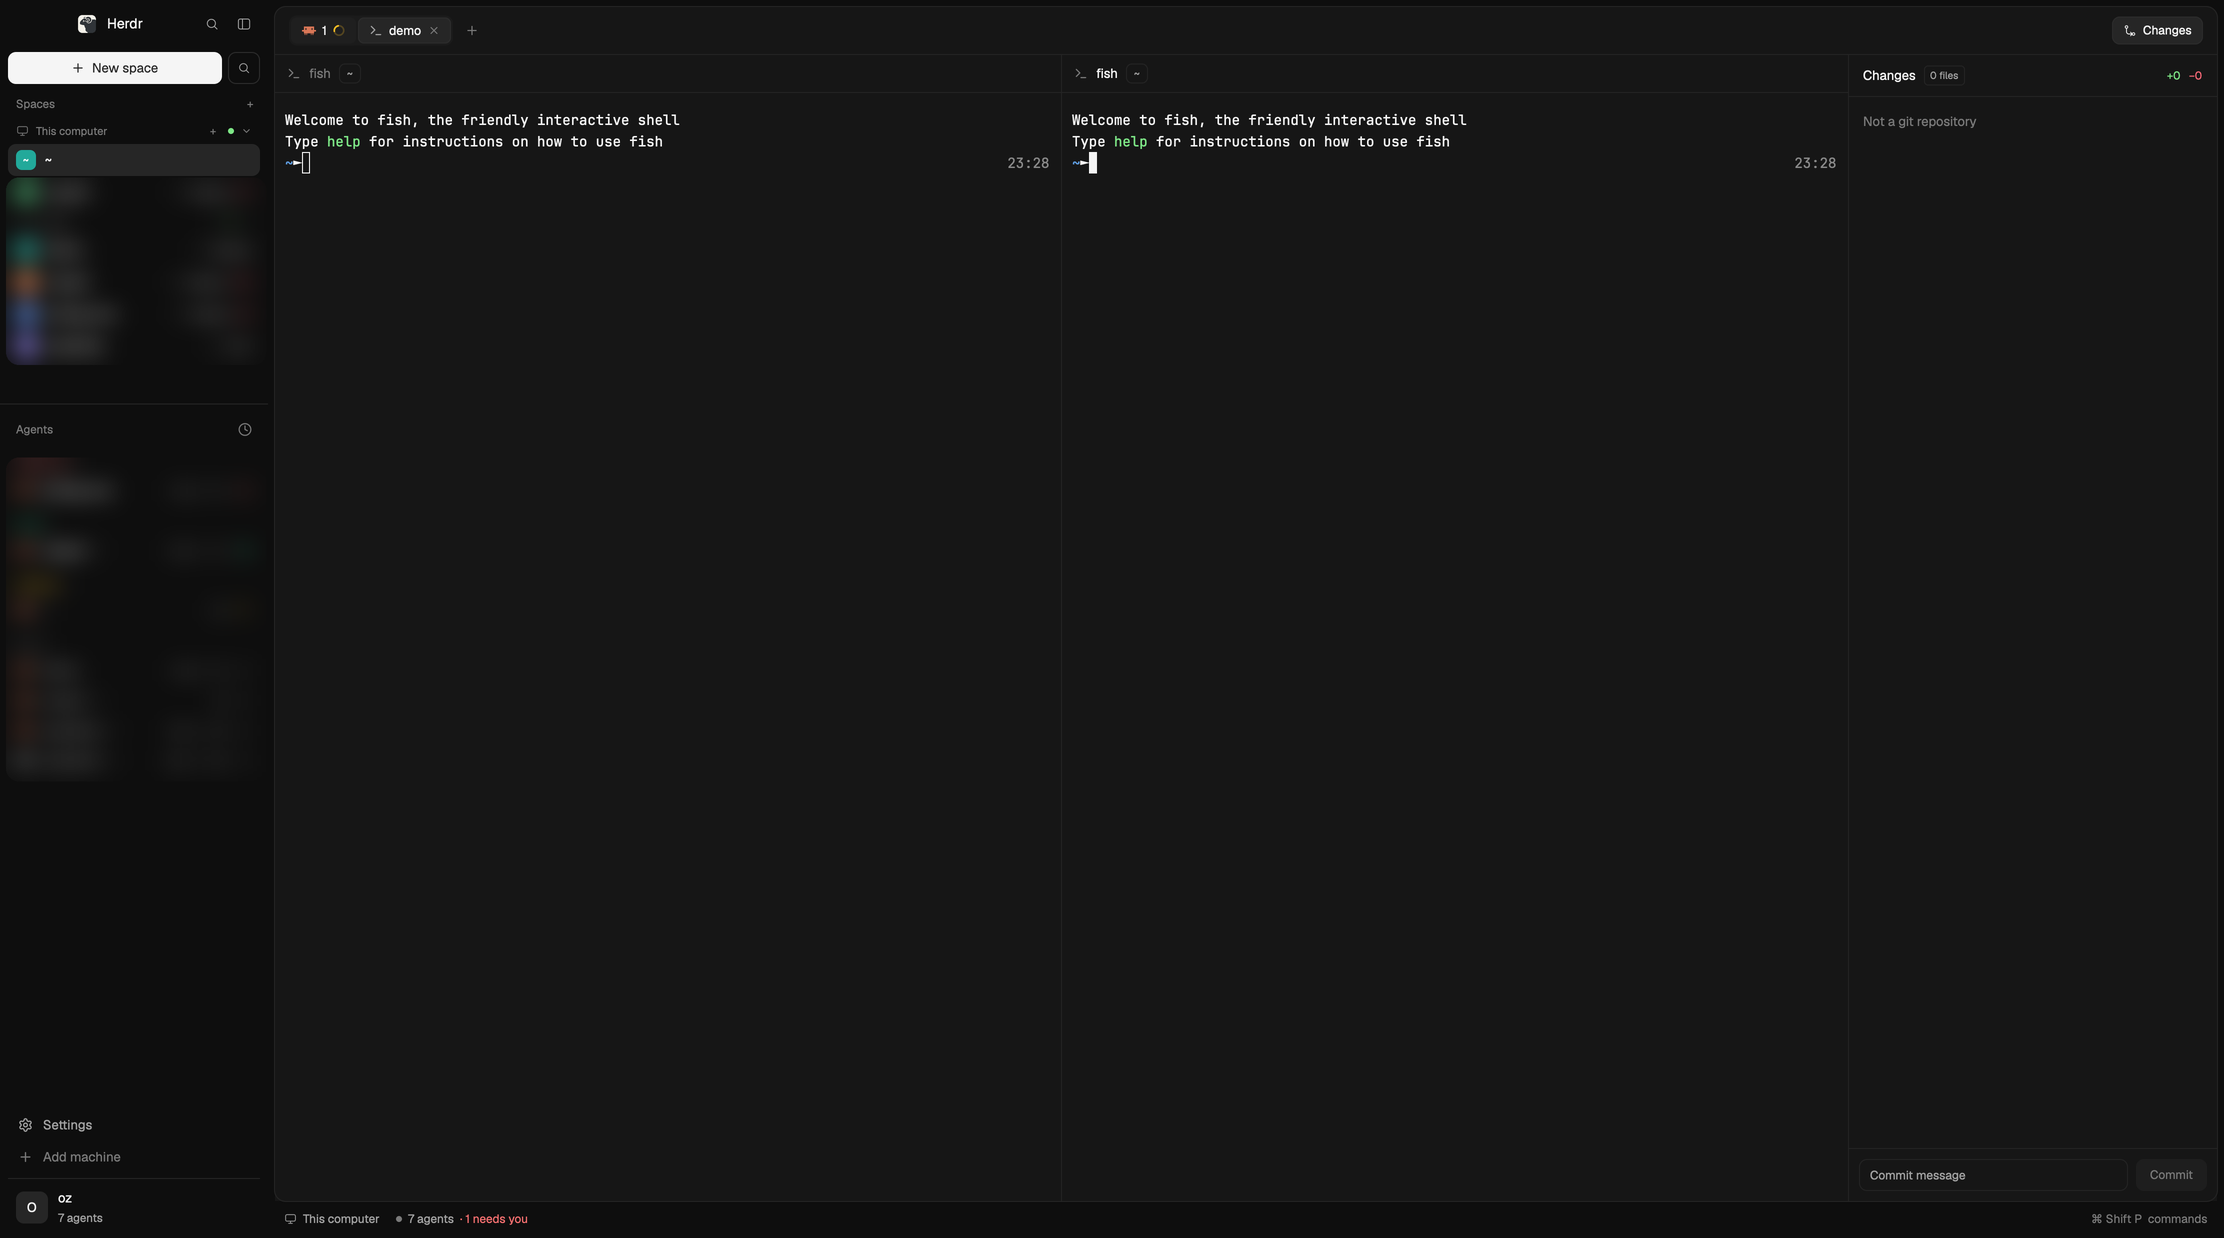
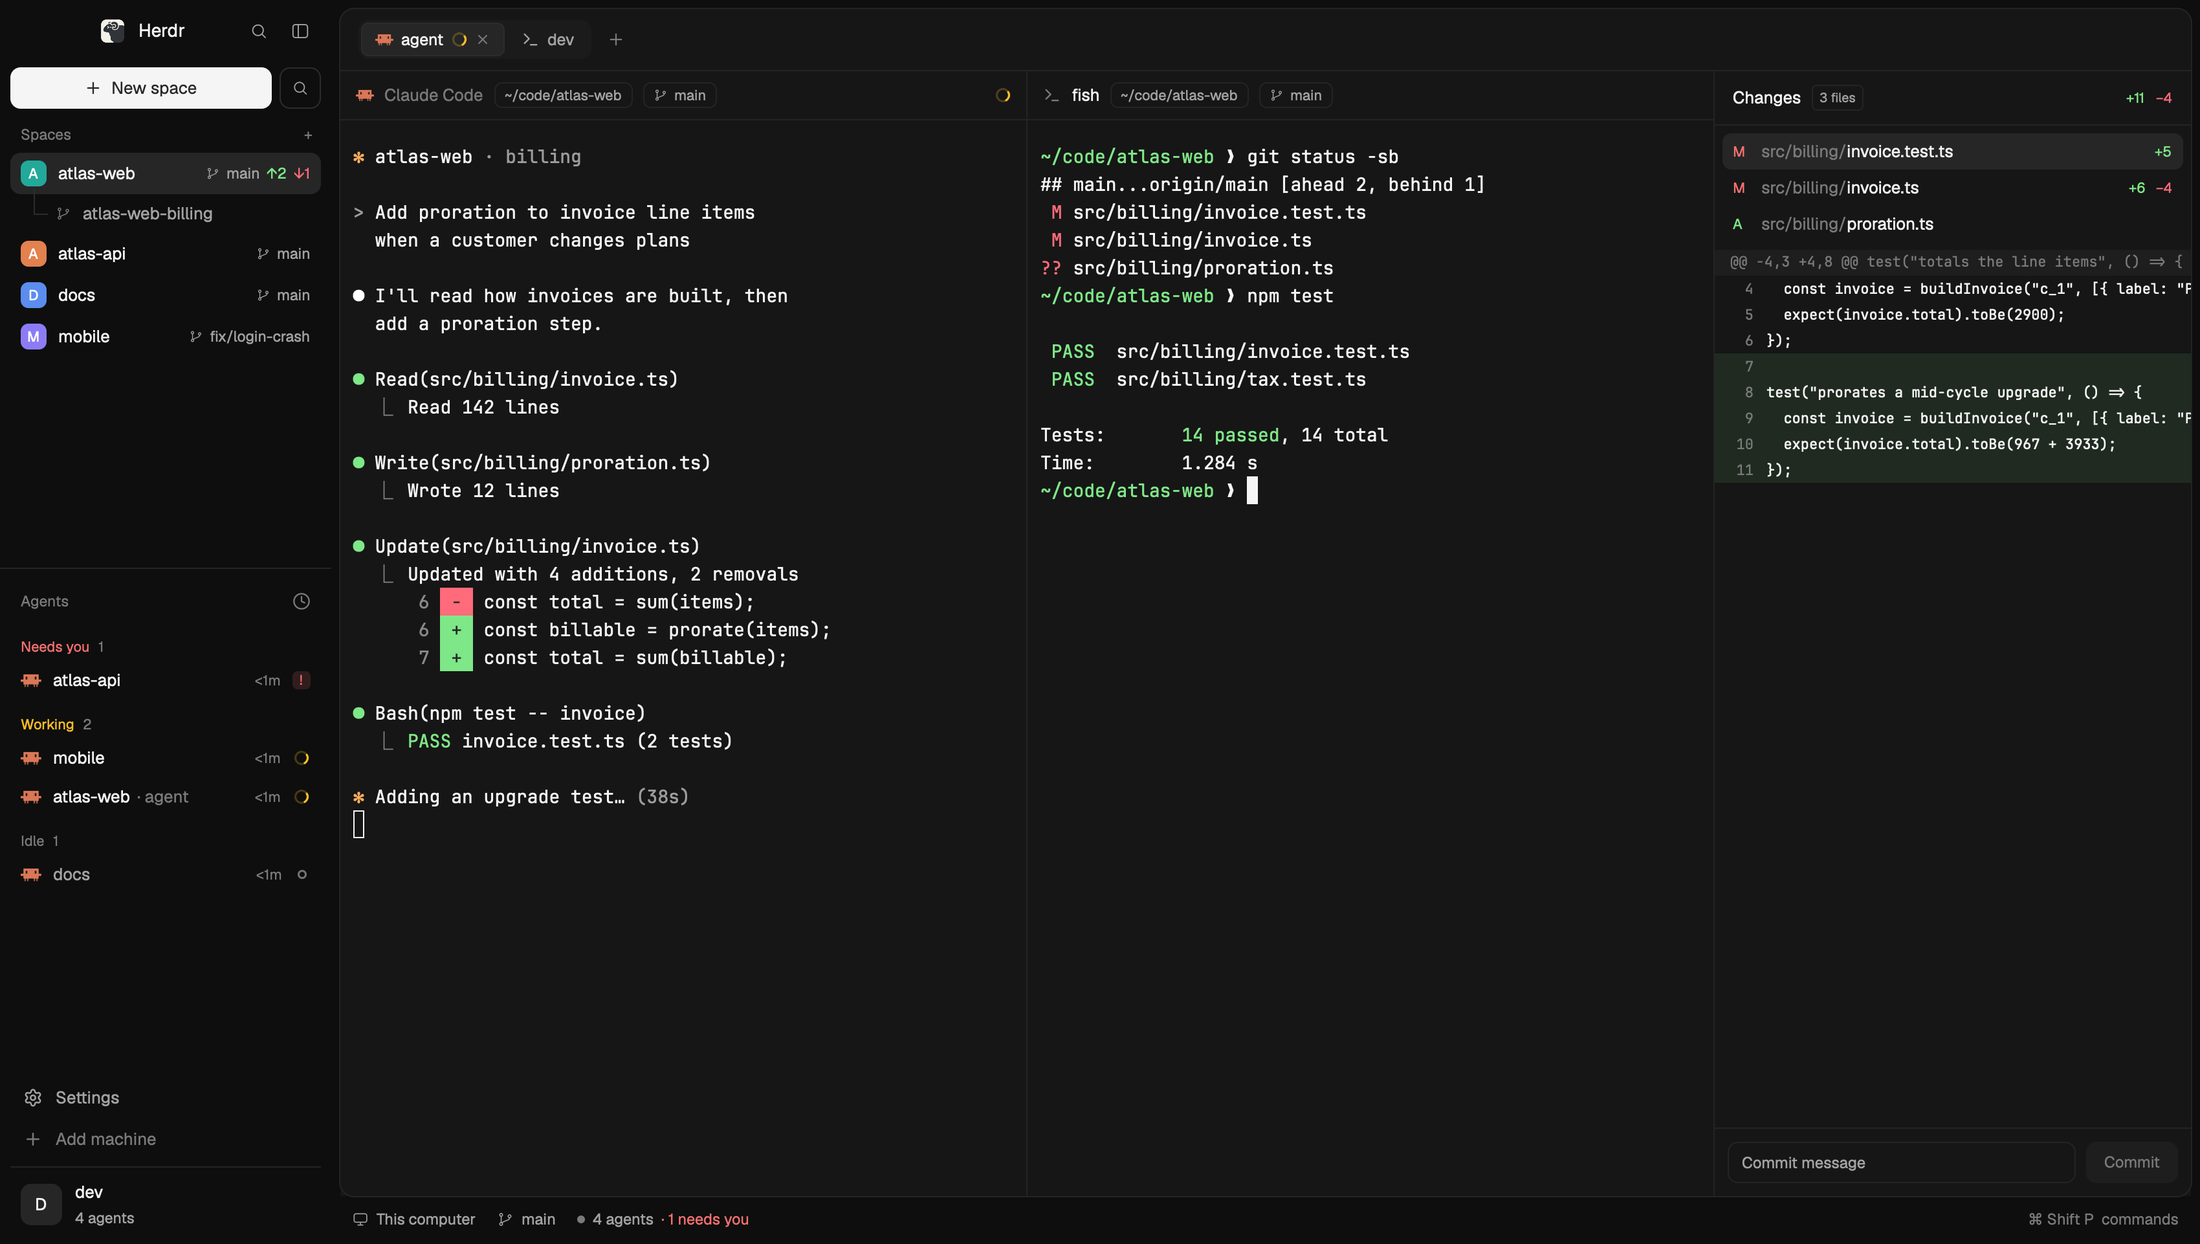
Use a seeded demo screenshot and add Apache-2.0 license
Replace the blurred live screenshot with a demo window built from fixture
repos and made-up spaces, so nothing personal is visible.

Add the Apache-2.0 LICENSE to match Herdr. Each oz-* mod now carries a
notice naming the Herdr mod it derives from and what was changed.

diff --git a/mods/oz-spaces/main.js b/mods/oz-spaces/main.js
@@ -1,3 +1,5 @@
+// Derived from the `spaces` mod shipped with Herdr (Apache-2.0, https://github.com/herdrdev/herdr-app).
+// Modified by 0OZ: New space button, initial tiles, nested worktrees on guide lines, ahead/behind counts.
 // Workspace spaces: stable colored avatars, worktrees under their checkout,
 // grouped by machine when more than one is known. After a space's name, the repo
 // its first terminal is in now, only where unusual: branch, ahead/behind. Agent state lives in the agents list, not here. Click to

diff --git a/mods/oz-pane/main.js b/mods/oz-pane/main.js
@@ -1,3 +1,5 @@
+// Derived from the `pane` mod shipped with Herdr (Apache-2.0, https://github.com/herdrdev/herdr-app).
+// Modified by 0OZ: outlined folder and branch badges, no header background, focus shown by title colour.
 // A pane's header, for layouts that frame their panes:
 //   { "tab": "active", "pane": { "header": { "content": { "mod": "oz-pane" } } } }
 // Shows the program's icon (the app's program table), the agent's name or

diff --git a/mods/oz-changes/main.js b/mods/oz-changes/main.js
@@ -1,3 +1,5 @@
+// Derived from the `changes` mod shipped with Herdr (Apache-2.0, https://github.com/herdrdev/herdr-app).
+// Modified by 0OZ: root no longer draws its own rounded, bordered card.
 import { View, div } from "gpui-kit";
 import { v_flex, h_flex, InputState, Input, Scrollbar, v_virtual_list } from "gpui-base";
 import { spaces, panes, focused, exec, readTextFile, watchFolder, theme, settings } from "herdr";

diff --git a/mods/oz-chrome/main.js b/mods/oz-chrome/main.js
@@ -1,3 +1,5 @@
+// Derived from the `workspace-chrome` mod shipped with Herdr (Apache-2.0, https://github.com/herdrdev/herdr-app).
+// Modified by 0OZ: brand bar, solid sidebar footer with Settings, Add machine and an account chip.
 import { View, div, image, svg } from "gpui-kit";
 import { h_flex, v_flex } from "gpui-base";
 import { theme, run, props, window, shared, setShared, updates, agents, home } from "herdr";

diff --git a/mods/oz-files/main.js b/mods/oz-files/main.js
@@ -1,3 +1,5 @@
+// Derived from the `files` mod shipped with Herdr (Apache-2.0, https://github.com/herdrdev/herdr-app).
+// Modified by 0OZ: root no longer draws its own rounded, bordered card.
 // A lazy file browser for the focused pane's folder, with bounded read-only previews.
 import { View, div, svg } from "gpui-kit";
 import { v_flex, h_flex, Editor, EditorState } from "gpui-base";

diff --git a/mods/oz-tabs/main.js b/mods/oz-tabs/main.js
@@ -1,3 +1,5 @@
+// Derived from the `tabs` mod shipped with Herdr (Apache-2.0, https://github.com/herdrdev/herdr-app).
+// Modified by 0OZ: segmented tab pill, outlined Files and Changes buttons, no bar background.
 import { View, div, svg, image } from "gpui-kit";
 import { h_flex } from "gpui-base";
 import { spaces, panes, run, openOverlay, theme, window, shared, layout } from "herdr";

diff --git a/mods/oz-status/main.js b/mods/oz-status/main.js
@@ -1,3 +1,5 @@
+// Derived from the `workspace-status` mod shipped with Herdr (Apache-2.0, https://github.com/herdrdev/herdr-app).
+// Modified by 0OZ: no background or top border.
 import { View, div, svg } from "gpui-kit";
 import { h_flex } from "gpui-base";
 import { spaces, agents, theme, run, window } from "herdr";

diff --git a/README.md b/README.md
@@ -9,7 +9,7 @@ A calm, neutral dark layout for the [Herdr](https://herdr.dev) app, in the spiri
 - Dashboard-style sidebar: a solid **New space** button, rows with initial tiles, nested worktrees, Settings and an account chip at the bottom.
 - Tabs in a segmented pill, and flat Files and Changes panels.
 
-The sidebar names in the screenshot are blurred.
+The screenshot is a demo window with fixture repos and made-up spaces.
 
 ## Install
 
@@ -30,3 +30,7 @@ herdr-app do layout.switch '{"name":"0oz-design"}'
 ## More
 
 [`RECIPE.md`](RECIPE.md) describes the layout region by region, how it behaves, and how it is built, so an agent can rebuild it from scratch.
+
+## License
+
+[Apache-2.0](LICENSE), the same as Herdr. The `oz-*` mods are modified copies of mods shipped with [Herdr](https://github.com/herdrdev/herdr-app); each file says which one and what changed.
